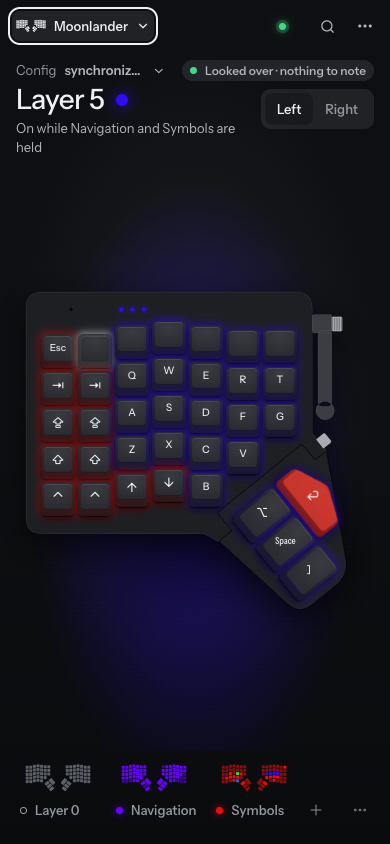
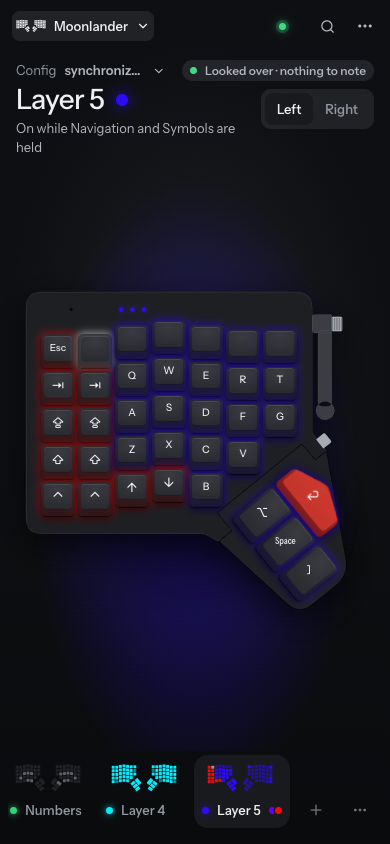
fix: the chosen layer's tab scrolls into view where the strip scrolls

diff --git a/src/web/keyboard/LayerTabs.tsx b/src/web/keyboard/LayerTabs.tsx
@@ -89,6 +89,17 @@ export function LayerTabs({ layout, selectedId, onSelect, marked, reviewed, acti
   const selected = layers[selectedIndex];
   const lightOf = (layerId: string): string | null => lights?.[layers.findIndex((l) => l.id === layerId)] ?? null;
 
+  // The chosen layer's tab is always in sight where the strip scrolls (a phone, a narrow stage): whatever chose it, a tab, a key press
+  // that found its layer, a board switch or an arrival. Smooth, or at once when motion is reduced.
+  const strip = useRef<HTMLDivElement>(null);
+  useEffect(() => {
+    const row = strip.current;
+    const tab = tabs.current[selectedIndex];
+    if (row === null || tab === null || tab === undefined || row.scrollWidth <= row.clientWidth) return;
+    const reduced = typeof matchMedia === "function" && matchMedia("(prefers-reduced-motion: reduce)").matches;
+    tab.scrollIntoView({ inline: "nearest", block: "nearest", behavior: reduced ? "instant" : "smooth" });
+  }, [selectedId, selectedIndex, layers.length]);
+
   // Arrow keys move between tabs and select as they go, as the tablist pattern asks.
   function onKeyDown(event: KeyboardEvent, index: number) {
     const step = event.key === "ArrowRight" ? 1 : event.key === "ArrowLeft" ? -1 : 0;
@@ -119,7 +130,7 @@ export function LayerTabs({ layout, selectedId, onSelect, marked, reviewed, acti
 
   return (
     <div className="layer-tabs-wrap">
-      <div className="layer-tabs" role="tablist" aria-label="Layers">
+      <div ref={strip} className="layer-tabs" role="tablist" aria-label="Layers">
         {layers.map((layer, index) => {
           const isSelected = layer.id === selectedId;
           const light = lights?.[index] ?? null;

diff --git a/docs/blueprint/14-decision-log.md b/docs/blueprint/14-decision-log.md
@@ -1576,6 +1576,7 @@ The brief for this part named D-240 to D-249, which the MacBook rung already hol
   - **Adding.** "Turn it on while two layers are held" (or "Another pair that turns it on") starts a draft, "[Lower] and [which layer?]", and nothing is applied until both are chosen. "Nothing changes until both are chosen" says so, and Cancel drops it. A pair that already turns the layer on is refused in place.
   - **The strip.** The tab of a layer two others turn on shows their two lights, small and overlapping, beside its name. Its accessible name is the sentence ("Adjust, also on while Lower and Raise are held"). The caption keeps "On while Lower and Raise are held", so the words are on screen once the layer is chosen and never hover-only (D-337). The truncated "LOW + RAI" link is gone.
   - **Strip and controls.** On a stage wider than 900px the strip and Combos/Inspect/History/Library share one grid row (`.stage-floor-row`). The strip is centred while it fits between equal sides, and the controls' side is never narrower than the controls, so a strip too wide to centre moves left instead of running under them. The controls keep their labels only while the strip at full width still centres with them clear. When even their icons would leave the strip too little room to show every name whole, they go above the strip at the right, as on a narrower stage (eight Glove80 layers beside the side column). `ViewControls` decides by the strip's unshortened width, so the choice doesn't flip as the strip moves. It now measures the strip with its `+` and `...` buttons; leaving those out is how `...` got covered. Below 900px nothing changed.
+  - **The chosen layer's tab stays in sight** wherever the strip scrolls (a phone): however the layer was chosen, by a tab, a key press that found it, a board switch or an arrival, its tab scrolls into view (`scrollIntoView`, nearest), smoothly or at once under reduced motion. Checked at 390×844: Layer 5 by a tab, Home and End on the strip, and arriving on Layer 5 from another config.
   - **The caption** names the two layers as the strip does ("One shot", not the keymap's "one_shot").
   - **Checked on a copy of BK's data with fake keyboards:**
     - **Sizes:** 1440×900 and 1366×768 with 6, 7 and 8 layers, with and without the side column, plus 1280×577 and 390×844, in both themes.
